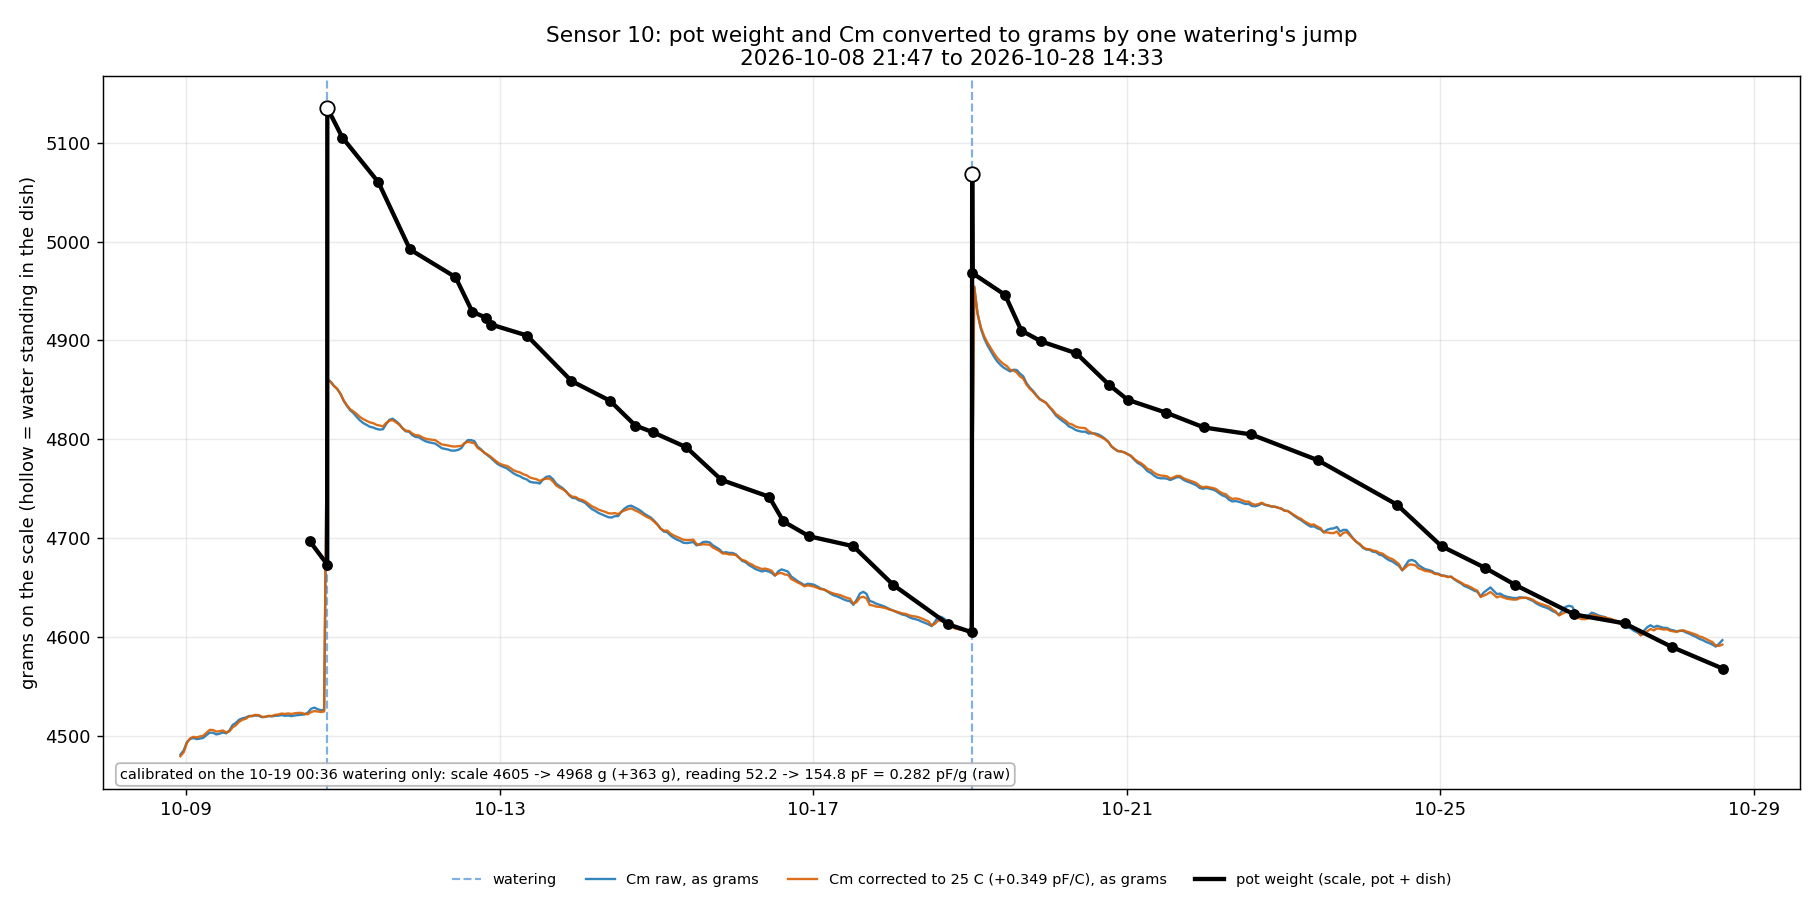
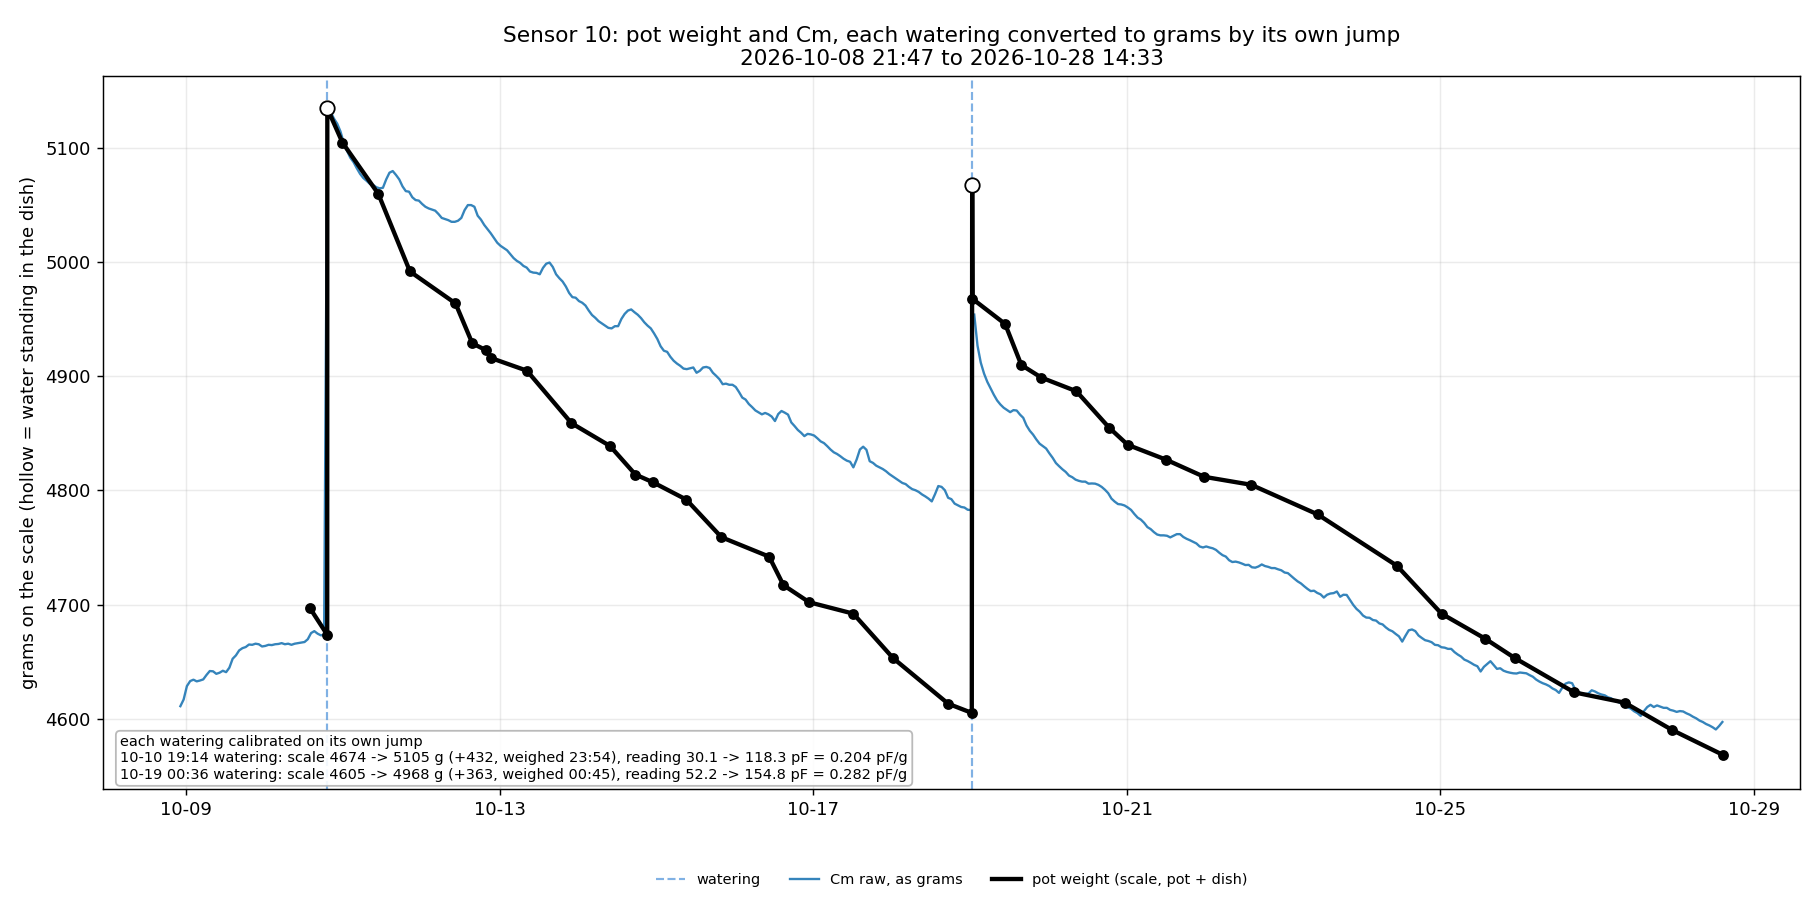
Mass vs reading plots: calibrate each watering on its own jump
One watering's gain did not fit the other (number 16.5 vs 15.7 units/g,
Cm 0.204 vs 0.282 pF/g), so the first cycle's jump missed the scale's.
Each cycle now uses its own pre-watering anchor and its own gain, with
the after-weight taken from the first weighing with no water standing in
the dish (23:54 for 10-10, +432 g; 00:45 for 10-19, +363 g).

diff --git a/MSV4/scripts/msv4_mass_vs_value_plot.py b/MSV4/scripts/msv4_mass_vs_value_plot.py
@@ -9,10 +9,12 @@ before) over the same minutes. gain = reading change / grams added; the reading 
 on the scale's own axis, anchored at the pre-watering weighing. No line is fitted through the later
 weighings, so any gap to the black curve is the calibration failing to hold, not a fit hiding it.
 
-The calibration watering is the LAST one with a clean pair (a dry-dish weighing within 30 min after
-and one within 30 min before), or --watering N (0 = first). Reading "after" is the median over the
-30 min starting at the after-weighing; the reading keeps settling for hours, so this choice moves
-the gain by a few percent (printed).
+Every watering is calibrated on ITS OWN jump (gains differ between waterings: the first cycle sits
+lower at the same weight, see moisture_cycle2_offset), and each cycle's curve is anchored at that
+watering's own pre-watering weighing and drawn until the next watering. The scale's "after" weight
+is the first weighing with NO water standing in the dish (a weight with standing dish water holds
+water the sensor cannot see), so it can come hours after the watering; that is printed per watering.
+Reading "after" is the median over the 30 min starting at that weighing.
 
 Two figures are written beside the input CSV:
   msv4_mass_vs_moisture_number.png   moisture number in use (as built, 2 %/C corrected)
@@ -38,6 +40,8 @@ import msv4_moisture_competition as comp
 import msv4_moisture_tempcorr as tempcorr
 
 CLEAN_MIN = 30
+NL = chr(10)
+AFTER_MAX_MIN = 360   # first dry-dish weighing may come hours after the water went in
 
 
 def median_in(rows, value, start, end):
@@ -45,11 +49,11 @@ def median_in(rows, value, start, end):
     return (statistics.median(v), len(v)) if v else (None, 0)
 
 
-def calibrate(rows, weighings, watering, value):
+def calibrate(rows, weighings, watering, value, after_max_min=CLEAN_MIN):
     """(gain in reading units per gram, scale_before, reading_before, scale_after, reading_after) or None."""
     dry = [w for w in weighings if w["saucer"] is False]
     before = [w for w in dry if watering - timedelta(minutes=CLEAN_MIN) <= w["time"] < watering]
-    after = [w for w in dry if watering <= w["time"] <= watering + timedelta(minutes=CLEAN_MIN)]
+    after = [w for w in dry if watering <= w["time"] <= watering + timedelta(minutes=after_max_min)]
     if not before or not after:
         return None
     b, a = before[-1], after[0]
@@ -57,7 +61,7 @@ def calibrate(rows, weighings, watering, value):
     va, na = median_in(rows, value, a["time"], a["time"] + timedelta(minutes=30))
     if vb is None or va is None or a["grams"] <= b["grams"]:
         return None
-    return (va - vb) / (a["grams"] - b["grams"]), b["grams"], vb, a["grams"], va
+    return (va - vb) / (a["grams"] - b["grams"]), b["grams"], vb, a["grams"], va, a["time"]
 
 
 def figure(rows, weighings, waterings, series, title, out, note):
@@ -90,7 +94,6 @@ def main() -> None:
     parser = argparse.ArgumentParser(description=__doc__, formatter_class=argparse.RawDescriptionHelpFormatter)
     parser.add_argument("csv", type=Path)
     parser.add_argument("--out-dir", type=Path)
-    parser.add_argument("--watering", type=int, help="index of the calibration watering (0 = first); default the last clean one")
     args = parser.parse_args()
     rows = [r for r in reading.load(args.csv, None) if r["coupled"] is not None]
     if not rows:
@@ -106,40 +109,47 @@ def main() -> None:
     k_cm = tempcorr.fit_k(days[0], cm)[0] if days else None
     cm_corrected = lambda r: (r["cm"] - k_cm * (r["tip"] - tempcorr.REF_C)) if (not r["open"] and r["tip"] is not None) else None
 
-    candidates = [i for i in range(len(waterings)) if calibrate(rows, merged, waterings[i], number)]
-    if not candidates:
-        raise SystemExit("no watering has a dry-dish weighing within 30 min on both sides")
-    idx = args.watering if args.watering is not None else candidates[-1]
-    t_cal = waterings[idx]
+    t0 = rows[0]["time"]
+    hours = {}
 
-    def converted(value, base):
-        cal = calibrate(rows, merged, t_cal, base)
-        gain, sb, vb, sa, va = cal
-        t0 = rows[0]["time"]
-        line = [(t0 + timedelta(hours=h + 0.5), sb + (m - vb) / gain) for h, m, _ in comp.hourly(rows, value)]
-        return line, cal
+    def segments(value, unit):
+        """One (start, end, line) per watering, each with its own gain; also the notes."""
+        if id(value) not in hours:
+            hours[id(value)] = [(t0 + timedelta(hours=h + 0.5), m) for h, m, _ in comp.hourly(rows, value)]
+        series_h = hours[id(value)]
+        lines, notes = [], []
+        for n, w in enumerate(waterings):
+            cal = calibrate(rows, merged, w, value, AFTER_MAX_MIN)
+            if cal is None:
+                continue
+            gain, sb, vb, sa, va, ta = cal
+            end = waterings[n + 1] if n + 1 < len(waterings) else rows[-1]["time"] + timedelta(hours=1)
+            start = rows[0]["time"] if n == 0 else w
+            lines.append([(t, sb + (m - vb) / gain) for t, m in series_h if start <= t < end])
+            notes.append(f"{w:%m-%d %H:%M} watering: scale {sb:.0f} -> {sa:.0f} g (+{sa - sb:.0f}, weighed {ta:%H:%M}), "
+                         f"reading {vb:,.1f} -> {va:,.1f} {unit} = {gain:.3g} {unit}/g")
+        return lines, notes
 
-    def note_for(cal, unit):
-        gain, sb, vb, sa, va = cal
-        return (f"calibrated on the {t_cal:%m-%d %H:%M} watering only: scale {sb:.0f} -> {sa:.0f} g (+{sa - sb:.0f} g), "
-                f"reading {vb:,.1f} -> {va:,.1f} {unit} = {gain:.3g} {unit}/g")
+    def draw(name, specs, title, file, unit):
+        series, all_notes = [], []
+        for label, value, color in specs:
+            lines, notes = segments(value, unit)
+            for j, line in enumerate(lines):
+                series.append((label if j == 0 else None, line, color))
+            all_notes += [f"[{label.split(',')[0]}] {x}" for x in notes] if len(specs) > 1 else notes
+        for x in all_notes:
+            print(name, x)
+        figure(rows, merged, waterings, series, title, out_dir / file,
+                "each watering calibrated on its own jump" + NL + NL.join(all_notes))
 
-    line, cal = converted(number, number)
-    print("moisture number:", note_for(cal, "units"))
-    figure(rows, merged, waterings, [("moisture number in use, as grams", line, "#1f77b4")],
-           f"Sensor {sensor}: pot weight and the moisture number converted to grams by one watering's jump",
-           out_dir / "msv4_mass_vs_moisture_number.png", note_for(cal, "units"))
-
-    series = []
-    line_raw, cal = converted(cm, cm)
-    series.append(("Cm raw, as grams", line_raw, "#1f77b4"))
-    print("Cm raw:", note_for(cal, "pF"))
+    draw("number", [("moisture number in use, as grams", number, "#1f77b4")],
+         f"Sensor {sensor}: pot weight and the moisture number, each watering converted to grams by its own jump",
+         "msv4_mass_vs_moisture_number.png", "units")
+    specs = [("Cm raw, as grams", cm, "#1f77b4")]
     if k_cm is not None:
-        line_cor, cal_cor = converted(cm_corrected, cm_corrected)
-        series.append((f"Cm corrected to {tempcorr.REF_C:g} C ({k_cm:+.3f} pF/C), as grams", line_cor, "#d95f02"))
-        print("Cm corrected:", note_for(cal_cor, "pF"))
-    figure(rows, merged, waterings, series, f"Sensor {sensor}: pot weight and Cm converted to grams by one watering's jump",
-           out_dir / "msv4_mass_vs_cm.png", note_for(cal, "pF") + " (raw)")
+        specs.append((f"Cm corrected to {tempcorr.REF_C:g} C ({k_cm:+.3f} pF/C), as grams", cm_corrected, "#d95f02"))
+    draw("Cm", specs[:1], f"Sensor {sensor}: pot weight and Cm, each watering converted to grams by its own jump",
+         "msv4_mass_vs_cm.png", "pF")
 
 
 if __name__ == "__main__":
